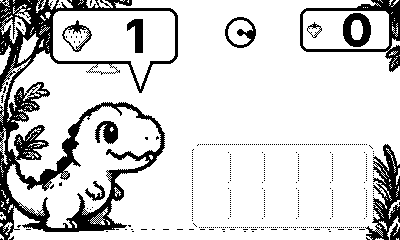
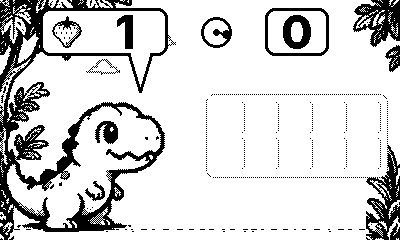
Align request and total on one axis; centre the total over the berries
- Request bubble and total box: same top edge and 48 px height
- Total: number centred in its box (icon dropped), hops inside the box,
  box centred over the strawberries (tray / current rows)
- Counting tray raised to sit under its total; multiplying prompt moved
  under the bubble so narrow grids don't squeeze it
- Tests cover alignment, centring for every row width and prompt overlap

Claude-Session: https://claude.ai/code/session_01PSZdM1SDyvnNPt6Ptk92Sc

diff --git a/README.md b/README.md
@@ -18,8 +18,9 @@ again.
   on the title screen. The choice and unlocked levels are saved.
 - **Grid display:** strawberries fill a 2×5 grid (Counting) or one row per
   dino (Multiplying) instead of the bowl, to build spatial number sense.
-- **Running total:** a badge in the top-right shows how many strawberries
-  are on the tray and turns black when it matches the request (top-left).
+- **Running total:** a box centred over the strawberries shows how many
+  are on the tray and turns black when it matches the request. It sits on
+  the same line as the request bubble (top-left).
 - New cleaner party-dino sprites, 50 new voice lines, smaller request
   numerals.
 
@@ -52,8 +53,8 @@ twice in a row.
    numeral.
 2. Turn the **crank forward** to add strawberries and **backward** to take
    them out. Berries fill a **2×5 grid** (a ten-frame) one at a time, with
-   a bubbly sound. A **total badge** in the top-right corner always shows
-   how many are on the tray, opposite the request bubble in the top-left. It hops on every change and turns black when it matches
+   a bubbly sound. A **total box** on the same line as the request bubble,
+   centred right above the tray, always shows how many are on the tray. It hops on every change and turns black when it matches
    the request. Once the crank stops, the voice says the total.
 3. When the count matches, the dino gets excited and a pulsing **A** button
    appears. Press **A**. Berries fly into its mouth one at a time while the
@@ -73,7 +74,7 @@ twice in a row.
    many cells wide as each dino wants.
 3. The crank fills the grid **row by row**, so the answer is built as an
    array: 3 rows of 3. Each dino hops and smiles when its row is full. The
-   total badge in the top-right corner shows the running total and turns
+   total box, centred over the rows, shows the running total and turns
    black when it's right.
 4. Press **A**. Each dino eats its whole row in turn while the voice
    skip-counts (*"three, six, nine"*). Then it states the fact: *"Three

diff --git a/DESIGN_REVIEW.md b/DESIGN_REVIEW.md
@@ -38,6 +38,16 @@ Simulator.
 | 14 | The berry inset inside a cell was hard-coded. | Derived from the cell pitch, so the grid can be retuned in one place. |
 | 15 | The tray looked heavy. 2–3 px solid box outlines and 50% dotted cells competed with the strawberries. | Tray and row boxes keep their white fill (so the berries stand out from the jungle) but have just a thin dotted edge. Empty cells are faint 25% dots. The strawberries are now the boldest thing on the tray. Check on hardware that the 25% cell dots are still visible on the reflective screen. |
 
+### Layout pass: one axis, centred total
+
+| # | Finding | Fix |
+|---|---|---|
+| 16 | The request bubble (56 px tall) and total badge (44 px) sat at different heights, so the top row looked ragged. | Both are 48 px tall with the same top edge in both games. A test enforces it. |
+| 17 | The total's number was pushed off-centre by a small strawberry icon, which also repeated the tray right below. | Icon removed. The number is centred in its box and hops inside the box, so the box never leaves the shared line. |
+| 18 | The total sat in a corner, not visibly tied to the berries it counts. | The box is centred over the strawberries: the whole tray when counting, the current rows when multiplying (it follows "each"). A test checks it for every row width. |
+| 19 | In Counting, the tray sat about 90 px below its total. | Tray raised to just under the total and moved right to clear the T-Rex's "!" marks. |
+| 20 | A narrow multiplying grid left no room for the prompt between the bubble and the total. | Prompt has a fixed spot under the bubble, above the T-Rex's "!" marks. A test checks it clears both boxes. |
+
 ### Still open
 
 - **Big T-Rex vs. grid in Multiplying:** the host takes the left 40% of
